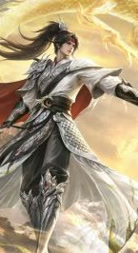
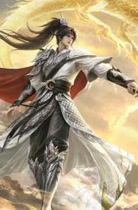
fix(赵云): 同步技能描述到当前实现 + 原画按卡框比例重裁（修出框）
## ① 技能描述同步（3 处与实现不一致）
  · 武翊4：旧描述"同一回合内不能多次发动"
      ⇒ 改为"同一回合内限一次，但你每装备一件武器，本项即可再发动一次"
        （实现：player.equip 钩子在装上武器时清掉 zyyi_weapon_used/round）
  · 武翊6：旧描述"免疫第一次受到的伤害"
      ⇒ 改为"你受到伤害时可以免疫之"（实现：已去掉"每局第一次"限制，每次受伤都可免疫）
  · 武翊7：旧描述"你第一次造成的伤害+1"
      ⇒ 改为"你造成伤害时令此伤害+1"（实现：已去掉"每局第一次"限制）
  · 摧锋2：已是"1+X"、"打出【杀】"（上一提交已同步）
  均无 Markdown 记号（游戏不解析）。

## ② 原画出框的真正原因：比例与立绘容器不符
  十周年UI 的立绘容器（extension/十周年UI/layout.css:836-849）：
      .button.character       { width: 90px; height: 120px; }        /* 卡框 */
      .button.character>.character { width: 100%; height: 114%; }    /* = 90 × 136.8 */
      background-size: cover;   /* 按比例放大填满 ⇒ 比例不符就溢出 */
  ⇒ 容器比例 = 90 / 136.8 = **0.658**
    原图 138×253 比例 0.545（更窄）⇒ cover 放大到 90×165 ⇒ **纵向溢出 28px**（出框）
    （此前我按 image/character/ 的 138×253 裁，方向判断也反了 —— 那是"纵向溢出"不是横向）
  修法：按容器比例重裁为 **138×210**（比例 0.657）：
        ffmpeg -i 原画 -vf "scale=138:210:force_original_aspect_ratio=increase,crop=138:210"
  验算：cover 缩放后 90.0×137.0，容器 90×136.8 ⇒ 超出 横0.0px / 纵0.2px ⇒ 零溢出。

已核：node --check、check-encoding、lint 体检通过；js 与图片的部署副本哈希均与仓库一致。

diff --git a/extension/extension.js b/extension/extension.js
@@ -806,9 +806,9 @@ game.import("extension", function (lib, game, ui, get, ai, _status) {
 						'tdgx_zhaoyun': '名·赵云',
 						// ★ 技能名与描述挂在这两个"首个技能"上（面板显示它们；其余子技能不给译名 ⇒ 不显示）
 						'zyyi_sha': '武翊',
-						'zyyi_sha_info': '1.你可以将一张【杀】当【闪】、【闪】当【杀】使用或打出。<br>2.回合开始时，你从牌堆/弃牌堆里选择一项获得：【1】进攻马、【2】防御马、【3】武器、【4】防具（先从牌堆里找，没有的话就去弃牌堆里找；两处都没有则不获得）。<br>3.你的手牌上限+x（x为你装备区内已装备的数量）。<br>4.当你装备区里有武器时，你造成伤害时，可以选择弃置一张装备栏里的武器牌或手牌中的武器牌，然后此伤害+1（同一回合内不能多次发动；同一次伤害不能叠加）。<br>5.当你装备区里有防具时，你受到伤害时，可以选择弃置一张装备栏里的防具牌或手牌中的防具牌，然后完全抵消此伤害。<br>6.当你装备区里有防御马（+1马）时，你免疫第一次受到的伤害，然后你可以选择弃置装备栏里的防御马；当你装备栏里的防御马离开你的装备栏时，你摸两张牌（同栏位重新装备或被夺走则刷新）。<br>7.当你装备区里有进攻马（-1马）时，你第一次造成的伤害+1，然后你可以选择弃置装备栏里的进攻马；当你装备栏里的进攻马离开你的装备栏时，你摸两张牌（同栏位重新装备或被夺走则刷新）。<br>8.若你从手牌中使用或者打出过的基本牌牌名数（火杀/雷杀不计为独立牌名）大于等于1/2/3：你使用基本牌无次数限制／你使用基本牌无距离限制／当你获得或失去装备时，你摸一张牌。',
+						'zyyi_sha_info': '1.你可以将一张【杀】当【闪】、【闪】当【杀】使用或打出。<br>2.回合开始时，你从牌堆/弃牌堆里选择一项获得：【1】进攻马、【2】防御马、【3】武器、【4】防具（先从牌堆里找，没有的话就去弃牌堆里找；两处都没有则不获得）。<br>3.你的手牌上限+x（x为你装备区内已装备的数量）。<br>4.当你装备区里有武器时，你造成伤害时，可以选择弃置一张装备栏里的武器牌或手牌中的武器牌，然后此伤害+1。同一回合内限一次，但你每装备一件武器，本项即可再发动一次（同一次伤害不能叠加）。<br>5.当你装备区里有防具时，你受到伤害时，可以选择弃置一张装备栏里的防具牌或手牌中的防具牌，然后完全抵消此伤害。<br>6.当你装备区里有防御马（+1马）时，你受到伤害时可以免疫之，然后你可以选择弃置装备栏里的防御马；当你装备栏里的防御马离开你的装备栏时，你摸两张牌（当你失去此防御马并重新装备防御马时，此效果刷新）。<br>7.当你装备区里有进攻马（-1马）时，你造成伤害时令此伤害+1，然后你可以选择弃置装备栏里的进攻马；当你装备栏里的进攻马离开你的装备栏时，你摸两张牌（当你失去此进攻马并重新装备进攻马时，此效果刷新）。<br>8.若你从手牌中使用或者打出过的基本牌牌名数（火杀/雷杀不计为独立牌名）大于等于1/2/3：你使用基本牌无次数限制／你使用基本牌无距离限制／当你获得或失去装备时，你摸一张牌。',
 						'zycf_extra': '摧锋',
-						'zycf_extra_info': '1.每轮限一次，每回合结束时，你可以摸一张牌并执行一个额外的回合（由你选择是否发动；额外回合包含判定/摸牌阶段，该额外回合结束时不能再发动本项）。<br>2.每回合结束时，你可以从装备栏或手牌中选择一张装备弃置，然后你可以视为对当前回合角色使用一张伤害值+X的【决斗】（X为本回合所有角色打出【杀】的次数，同一张【杀】指定多个目标按1次计）。该【决斗】不能以自己为目标，且至少造成1点伤害（若被【无懈可击】取消则保底不成立）。',
+						'zycf_extra_info': '1.每轮限一次，每回合结束时，你可以摸一张牌并执行一个额外的回合（由你选择是否发动；额外回合包含判定/摸牌阶段，该额外回合结束时不能再发动本项）。<br>2.每回合结束时，你可以从装备栏或手牌中选择一张装备弃置，然后你可以视为对当前回合角色使用一张伤害值为1+X的【决斗】（X为本回合所有角色打出【杀】的次数；同一张【杀】指定多个目标按1次计）。该【决斗】不能以自己为目标，且至少造成1点伤害（若被【无懈可击】取消则保底不成立）。',
 						// ★ 技能描述＝用户提供的原文，不再改写
 						// ★ 每个技能都必须有自己的译名，否则：界面空白、主动技按钮无字
 						//   （引擎用 lib.translate[skillId] 取技能名、lib.translate[skillId+'_info'] 取说明）
